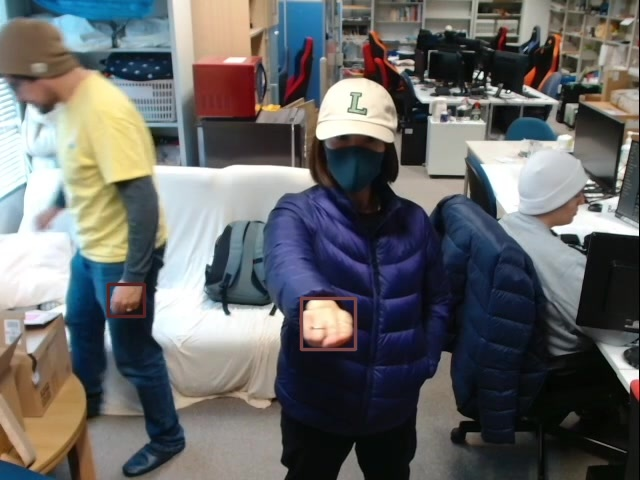
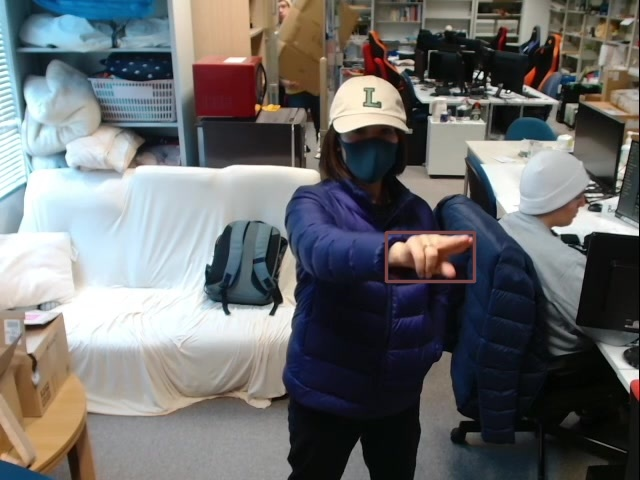
delete overlap boxes

diff --git a/box_selectc.py b/box_selectc.py
@@ -666,6 +666,7 @@ class UI(QMainWindow):
 		self.vid_name = vid_name
 		self.inst = None
 		self.f_ins = False
+		self.a_flag = False
 
 	def open_rep(self):
 		self.inst, uniq = find_SE(self.sele_path)
@@ -692,6 +693,23 @@ class UI(QMainWindow):
 		txt_path = os.path.join(self.sele_path, os.path.basename(self.bad_list[f_i]))
 		if self.text_chosen is not None:
 			self.write_txt(txt_path, self.text_chosen)
+	
+	def del_overboxes(self, frame_i=None, iou_th=0.9):
+		f_i = self.i if frame_i == None else frame_i
+		active_bbox = self.text_chosen[0]
+		del_box_idx = []
+		for i, cur_bbox in enumerate(self.text_chosen):
+			if i < 1:
+				continue
+			iou = calculate_iou_yolo(active_bbox, cur_bbox, self.img_size[0], self.img_size[1])
+			if iou >= iou_th:
+				print("-------AQUI HAY DOBLE", iou)
+				del_box_idx.append(i)
+		for i in sorted(del_box_idx, reverse=True):
+			del_bbox = self.text_chosen.pop(i)
+		txt_path = os.path.join(self.sele_path, os.path.basename(self.bad_list[f_i]))
+		if self.text_chosen is not None:
+			self.write_txt(txt_path, self.text_chosen)
 
 	def active_track(self, iou_th=0.45):
 		if self.pflag:
@@ -708,7 +726,7 @@ class UI(QMainWindow):
 		active_bbox = self.text_chosen[0]
 		j = 0
 		self.flag = False
-		self.pflag = True
+		self.a_flag  = True
 		for j in range(cur_frame, cur_seg[2]):
 			self.setClean_mode(j)
 			if len(self.text_chosen) > 1:
@@ -724,16 +742,18 @@ class UI(QMainWindow):
 					break
 			else:
 				active_bbox = self.text_chosen[0]
-			app.processEvents()
+			if len(self.text_chosen) > 1:
+				self.del_overboxes(j)
 			self.setClean_mode(j)
+			app.processEvents()
 			if self.flag:
 				break
-			time.sleep(0.007)
+			time.sleep(0.003)
 		if j > 0:
 			self.i = j
 			self.setClean_mode(j)
 		self.flag = False
-		self.pflag = False
+		self.a_flag  = False
 
 	def keyPressEvent(self, e):
 		# print(e.key())
@@ -764,6 +784,8 @@ class UI(QMainWindow):
 
 		if e.key() == Qt.Key_S:
 			if self.pflag:
+				self.flag = True
+			elif self.a_flag:
 				self.flag = True
 			else:
 				if self.sp_H1.isVisible():
